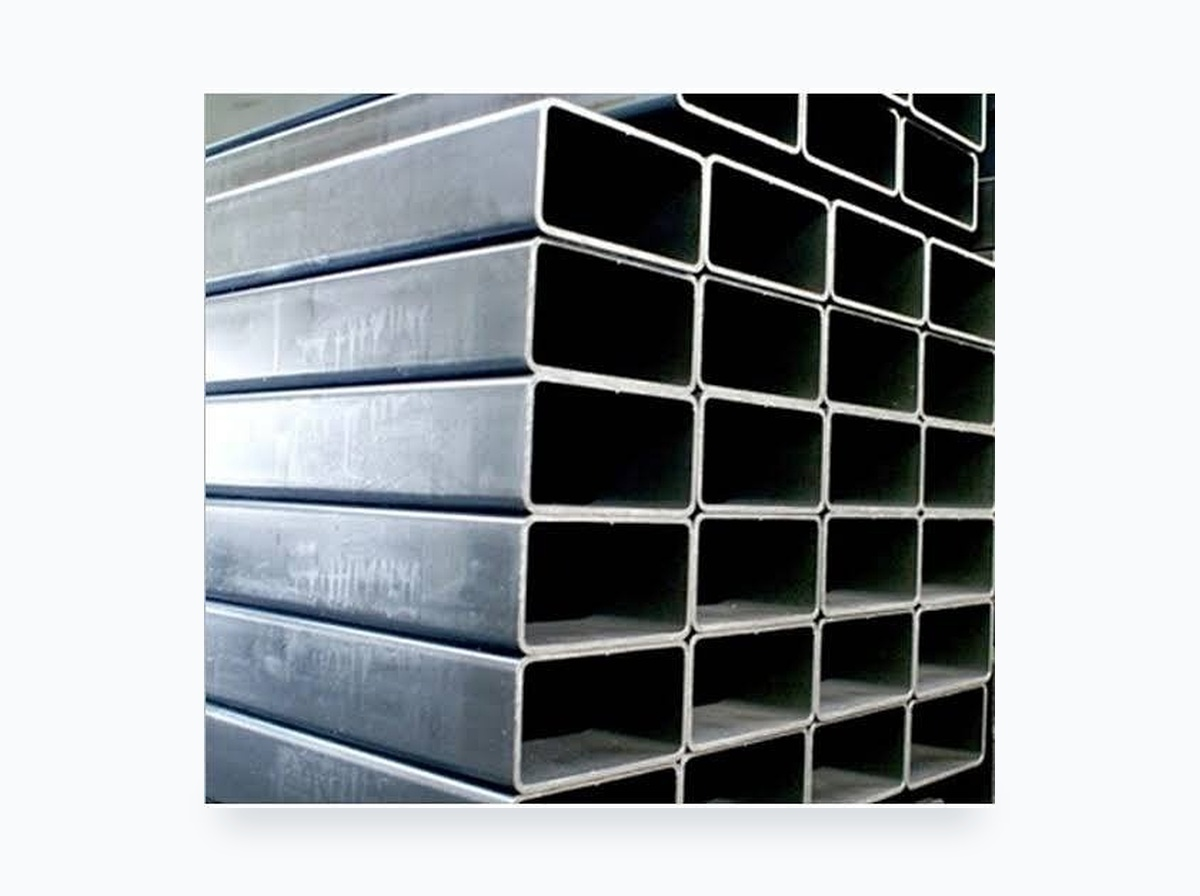
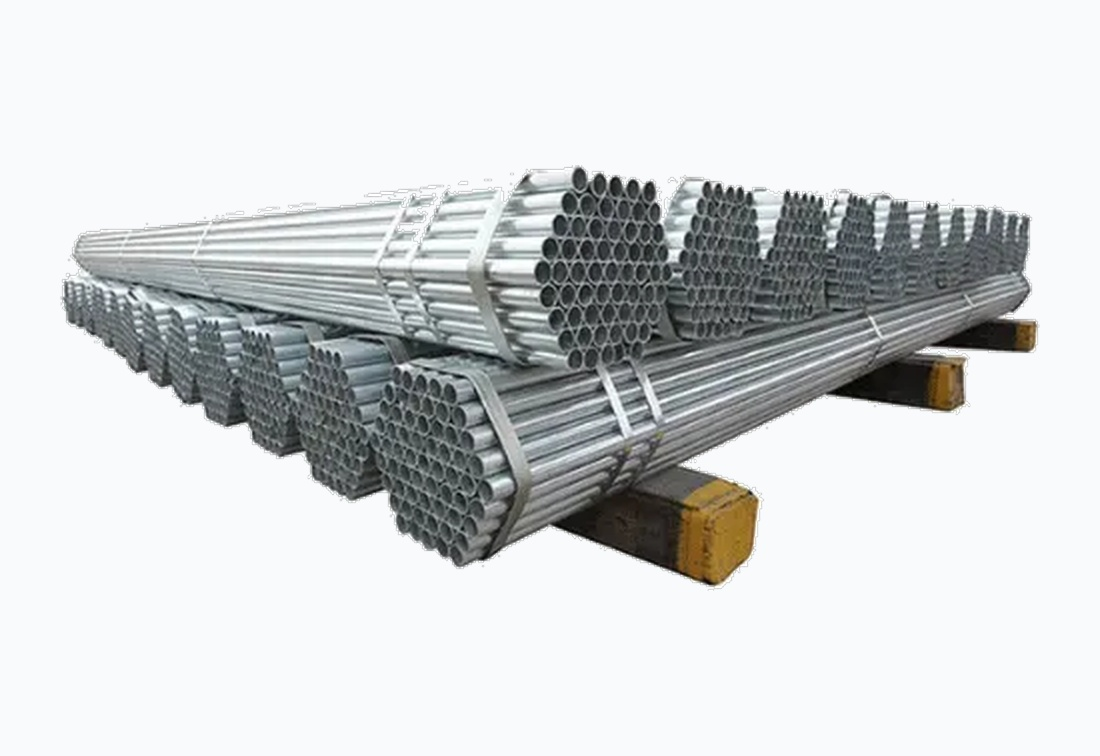
feat: add home and products pages with hero carousel, manufactured sheets, and navbar components

diff --git a/components/ManufacturedSheetsSection.tsx b/components/ManufacturedSheetsSection.tsx
@@ -4,7 +4,7 @@ import React from "react";
 import Image from "next/image";
 import Link from "next/link";
 import { ArrowRight, CheckCircle2, Layers } from "lucide-react";
-import { CadDimensionMarks, WatermarkText } from "@/components/IndustrialBackgrounds";
+import { WatermarkText } from "@/components/IndustrialBackgrounds";
 
 interface ProductItem {
   id: string;
@@ -58,11 +58,11 @@ const products: ProductItem[] = [
     category: "STRUCTURAL FRAMEWORK",
     title: "Structural GI Pipes",
     desc: "Certified high-yield galvanized steel tubes designed for roof purlins, rafters, and structural trusses with heavy zinc defense.",
-    image: "/images/product-card-pipes-framed.jpg",
+    image: "/images/product-gi-pipes.png",
     imageFit: "contain",
-    imageAlt: "Structural GI Galvanized Steel Purlin Pipes",
+    imageAlt: "Structural Galvanized Iron (GI) Pipes and Tubes",
     benefits: [
-      "Square & rectangular hollow sections",
+      "Galvanized zinc corrosion defense",
       "APL Apollo certified primary steel",
     ],
     enquireHref: "/contact?product=gp-pipes",
@@ -113,7 +113,9 @@ function ProductCard({ product, index }: { product: ProductItem; index: number }
               priority={index === 0}
               className={`transition-transform duration-500 ease-out group-hover:scale-[1.03] ${
                 product.imageFit === "cover"
-                  ? "object-cover object-[50%_25%]"
+                  ? product.id === "rainwater-gutters"
+                    ? "object-cover object-[50%_25%]"
+                    : "object-cover object-center"
                   : "object-contain"
               }`}
             />
@@ -126,18 +128,20 @@ function ProductCard({ product, index }: { product: ProductItem; index: number }
             {product.category}
           </span>
 
-          {/* 3. Clear Product Name */}
-          <h3 className="mt-1 text-lg font-extrabold tracking-tight text-navy transition-colors group-hover:text-brand sm:text-xl">
-            {product.title}
-          </h3>
+          {/* 3. Clear Product Name with aligned baseline */}
+          <div className="mt-1 flex items-start min-h-[48px] sm:min-h-[52px]">
+            <h3 className="text-lg font-extrabold tracking-tight text-navy transition-colors group-hover:text-brand sm:text-xl leading-snug">
+              {product.title}
+            </h3>
+          </div>
 
           {/* 4. One Concise, Readable Description */}
-          <p className="mt-2 text-xs leading-relaxed text-slate-600 line-clamp-3">
+          <p className="mt-1.5 text-xs leading-relaxed text-slate-600 line-clamp-3 min-h-[48px]">
             {product.desc}
           </p>
 
           {/* 5. At Most Two Short Key Benefits */}
-          <ul className="mt-3.5 space-y-2">
+          <ul className="mt-3.5 space-y-2 min-h-[48px]">
             {product.benefits.map((benefit) => (
               <li
                 key={benefit}
@@ -152,7 +156,7 @@ function ProductCard({ product, index }: { product: ProductItem; index: number }
       </div>
 
       {/* 6. One Prominent, Consistently Positioned Enquiry CTA + Direct Spec Link */}
-      <div className="mt-5 border-t border-slate-100 pt-3.5">
+      <div className="mt-4 border-t border-slate-100 pt-3.5">
         <Link
           href={product.enquireHref}
           className="inline-flex min-h-10 w-full items-center justify-center gap-1.5 rounded-lg bg-navy px-3 py-2 text-center text-xs font-bold text-white shadow-2xs transition hover:bg-brand active:scale-[0.99]"
@@ -210,12 +214,6 @@ export default function ManufacturedSheetsSection() {
           {products.map((product, i) => (
             <ProductCard key={product.id} product={product} index={i} />
           ))}
-        </div>
-
-        {/* Industrial Specification Footer Line */}
-        <div className="mt-8 hidden items-center justify-between border-t border-slate-100 pt-4 font-mono text-xs text-slate-400 sm:flex">
-          <CadDimensionMarks label="MANUFACTURED PROFILES" spec="ROOFING (TRUSSFOLD) & LINER (1110MM)" />
-          <CadDimensionMarks label="STRUCTURAL FRAMEWORK" spec="GI PIPES (APL APOLLO) & EAVES GUTTERS" />
         </div>
       </div>
     </section>

diff --git a/app/page.tsx b/app/page.tsx
@@ -51,9 +51,6 @@ export default function Home() {
                 Engineered roofing and liner systems for residences, commercial spaces, and industrial hubs
               </p>
             </div>
-            <div className="hidden font-mono text-xs text-slate-400 sm:block">
-              [ 03 SECTOR SPECIALIZATIONS ]
-            </div>
           </div>
 
           <div className="-mx-4 mt-6 flex scroll-pl-4 snap-x snap-mandatory gap-4 overflow-x-auto px-4 pb-4 pt-1 [scrollbar-width:none] [&::-webkit-scrollbar]:hidden sm:mx-0 sm:mt-10 sm:grid sm:grid-cols-3 sm:gap-6 sm:overflow-visible sm:px-0 sm:pb-0 sm:pt-0">
@@ -128,9 +125,6 @@ export default function Home() {
                 Manufactured exclusively using certified primary steel coils from industry leaders
               </p>
             </div>
-            <div className="hidden font-mono text-xs text-slate-400 sm:block">
-              [ 100% PRIMARY COIL INTEGRITY ]
-            </div>
           </div>
 
           <div className="mt-6 grid grid-cols-3 gap-3 sm:mt-10 sm:gap-6">
@@ -139,27 +133,16 @@ export default function Home() {
                 key={p.name}
                 data-reveal
                 style={{ "--reveal-delay": `${i * 90}ms` } as React.CSSProperties}
-                className="group relative flex min-w-0 flex-col items-center justify-between rounded-2xl border border-slate-200/80 bg-white px-3 pb-4 pt-5 shadow-sm transition-all duration-300 hover:-translate-y-1 hover:border-brand/40 hover:shadow-md sm:px-6 sm:pb-6 sm:pt-8"
+                className="group relative flex min-w-0 items-center justify-center rounded-2xl border border-slate-200/80 bg-white p-4 shadow-sm transition-all duration-300 hover:-translate-y-1 hover:border-brand/40 hover:shadow-md sm:p-8 sm:py-10"
               >
-                <span className="font-mono text-[9px] uppercase tracking-widest text-slate-400 sm:text-[11px]">
-                  PARTNER 0{i + 1}
-                </span>
-                <div className="my-3 flex h-14 w-full items-center justify-center sm:my-5 sm:h-24">
+                <div className="flex h-16 w-full items-center justify-center sm:h-24">
                   <Image
                     src={p.src}
                     alt={p.name}
                     width={p.w}
                     height={p.h}
-                    className="max-h-12 w-auto max-w-full object-contain transition-transform duration-300 group-hover:scale-105 sm:max-h-20"
+                    className="max-h-12 w-auto max-w-full object-contain transition-transform duration-300 group-hover:scale-105 sm:max-h-18"
                   />
-                </div>
-                <div className="w-full border-t border-slate-100 pt-2.5 text-center">
-                  <p className="font-mono text-[11px] font-bold uppercase tracking-wider text-navy sm:text-xs">
-                    {p.name}
-                  </p>
-                  <p className="text-[10px] text-slate-400 hidden sm:block">
-                    {p.name === "APL Apollo" ? "Structural GP Pipes & Tubes" : "Authorized Supply Line"}
-                  </p>
                 </div>
               </div>
             ))}

diff --git a/components/HeroCarousel.tsx b/components/HeroCarousel.tsx
@@ -1,6 +1,6 @@
 "use client";
 
-import { useEffect, useRef, useState, useSyncExternalStore } from "react";
+import { useEffect, useState, useSyncExternalStore } from "react";
 import Image from "next/image";
 import Link from "next/link";
 import { ArrowRight } from "lucide-react";
@@ -109,7 +109,7 @@ const subscribeVisibility = (cb: () => void) => {
 
 export default function HeroCarousel({
   slides = defaultSlides,
-  intervalMs = 3000,
+  intervalMs = 4500,
 }: HeroCarouselProps) {
   const count = slides.length;
   const [activeIndex, setActiveIndex] = useState(0);
@@ -129,25 +129,11 @@ export default function HeroCarousel({
   );
   const paused = hovering || keyboardFocus || tabHidden || reducedMotion;
 
-  // Which slide images have finished loading, so we never fade to a blank frame
-  const loaded = useRef<Set<number>>(new Set([0]));
-  const skipped = useRef(0);
-
-  // Advances every `intervalMs`; the effect re-runs on every slide change, which
-  // restarts the countdown after manual navigation as well.
+  // Reliable interval autoplay across all environments
   useEffect(() => {
     if (paused || count <= 1) return;
     const id = window.setInterval(() => {
-      setActiveIndex((current) => {
-        const next = (current + 1) % count;
-        // wait (at most once) for the next image instead of fading to an empty frame
-        if (!loaded.current.has(next) && skipped.current < 1) {
-          skipped.current += 1;
-          return current;
-        }
-        skipped.current = 0;
-        return next;
-      });
+      setActiveIndex((current) => (current + 1) % count);
     }, intervalMs);
     return () => window.clearInterval(id);
   }, [activeIndex, paused, intervalMs, count]);
@@ -181,10 +167,6 @@ export default function HeroCarousel({
             }`}
           >
             <Image
-              ref={(el) => {
-                if (el?.complete && el.naturalWidth > 0) loaded.current.add(index);
-              }}
-              onLoad={() => loaded.current.add(index)}
               src={slide.image}
               alt={slide.alt}
               fill
@@ -292,10 +274,7 @@ export default function HeroCarousel({
                       type="button"
                       aria-label={`Go to slide ${index + 1}`}
                       aria-current={isActive ? "true" : undefined}
-                      onClick={() => {
-                        skipped.current = 0;
-                        setActiveIndex(index);
-                      }}
+                      onClick={() => setActiveIndex(index)}
                       className="group relative flex h-6 cursor-pointer items-center justify-center px-0.5 focus-visible:outline-2 focus-visible:outline-brand"
                     >
                       <span

diff --git a/components/Navbar.tsx b/components/Navbar.tsx
@@ -16,7 +16,18 @@ const navItems = [
 export default function Navbar() {
   const pathname = usePathname();
   const [open, setOpen] = useState(false);
+  const [scrolled, setScrolled] = useState(false);
   const buttonRef = useRef<HTMLButtonElement>(null);
+
+  // Track scroll position for subtle elevation
+  useEffect(() => {
+    const handleScroll = () => {
+      setScrolled(window.scrollY > 15);
+    };
+    handleScroll();
+    window.addEventListener("scroll", handleScroll, { passive: true });
+    return () => window.removeEventListener("scroll", handleScroll);
+  }, []);
 
   // Escape closes the mobile menu and returns focus to the toggle
   useEffect(() => {
@@ -32,8 +43,14 @@ export default function Navbar() {
   }, [open]);
 
   return (
-    <header className="sticky top-0 z-50 border-b border-slate-100 bg-white/95 shadow-[0_2px_15px_-3px_rgba(0,0,0,0.05)] backdrop-blur-md">
-      <div className="mx-auto flex h-16 max-w-7xl items-center justify-between gap-2 px-4 sm:h-20 sm:px-8">
+    <header
+      className={`sticky top-0 z-50 transition-all duration-300 ${
+        scrolled
+          ? "border-b border-slate-200/90 bg-white/95 shadow-[0_4px_20px_-4px_rgba(10,37,64,0.07)] backdrop-blur-md"
+          : "border-b border-slate-100/80 bg-white/90 backdrop-blur-xs"
+      }`}
+    >
+      <div className="mx-auto flex h-16 max-w-7xl items-center justify-between gap-2 px-4 sm:h-18 sm:px-8">
         <Link
           href="/"
           onClick={() => setOpen(false)}

diff --git a/app/products/page.tsx b/app/products/page.tsx
@@ -335,8 +335,8 @@ export default function ProductsPage() {
                   </div>
                   <div className="relative flex h-full w-full items-center justify-center">
                     <Image
-                      src="/images/product-gp-pipes.jpg"
-                      alt="Structural Galvanized Plain GP Pipes for Roof Purlins"
+                      src="/images/product-gi-pipes.png"
+                      alt="Structural Galvanized Plain GI Pipes for Roof Purlins"
                       fill
                       sizes="(max-width: 1024px) 100vw, 560px"
                       className="object-contain transition-transform duration-500 ease-out group-hover:scale-105"

diff --git a/components/sections.tsx b/components/sections.tsx
@@ -41,11 +41,6 @@ export function WhyChoose() {
               Built on 20+ years of digital manufacturing and roofing excellence
             </p>
           </div>
-          <div className="hidden items-center gap-2 font-mono text-xs text-slate-400 sm:flex">
-            <span>[ SYSTEM MATRIX ]</span>
-            <span>✦</span>
-            <span>PALAKKAD UNIT</span>
-          </div>
         </div>
 
         {/* Unified 6-cell hairline grid inspired by modern editorial studio layout */}
